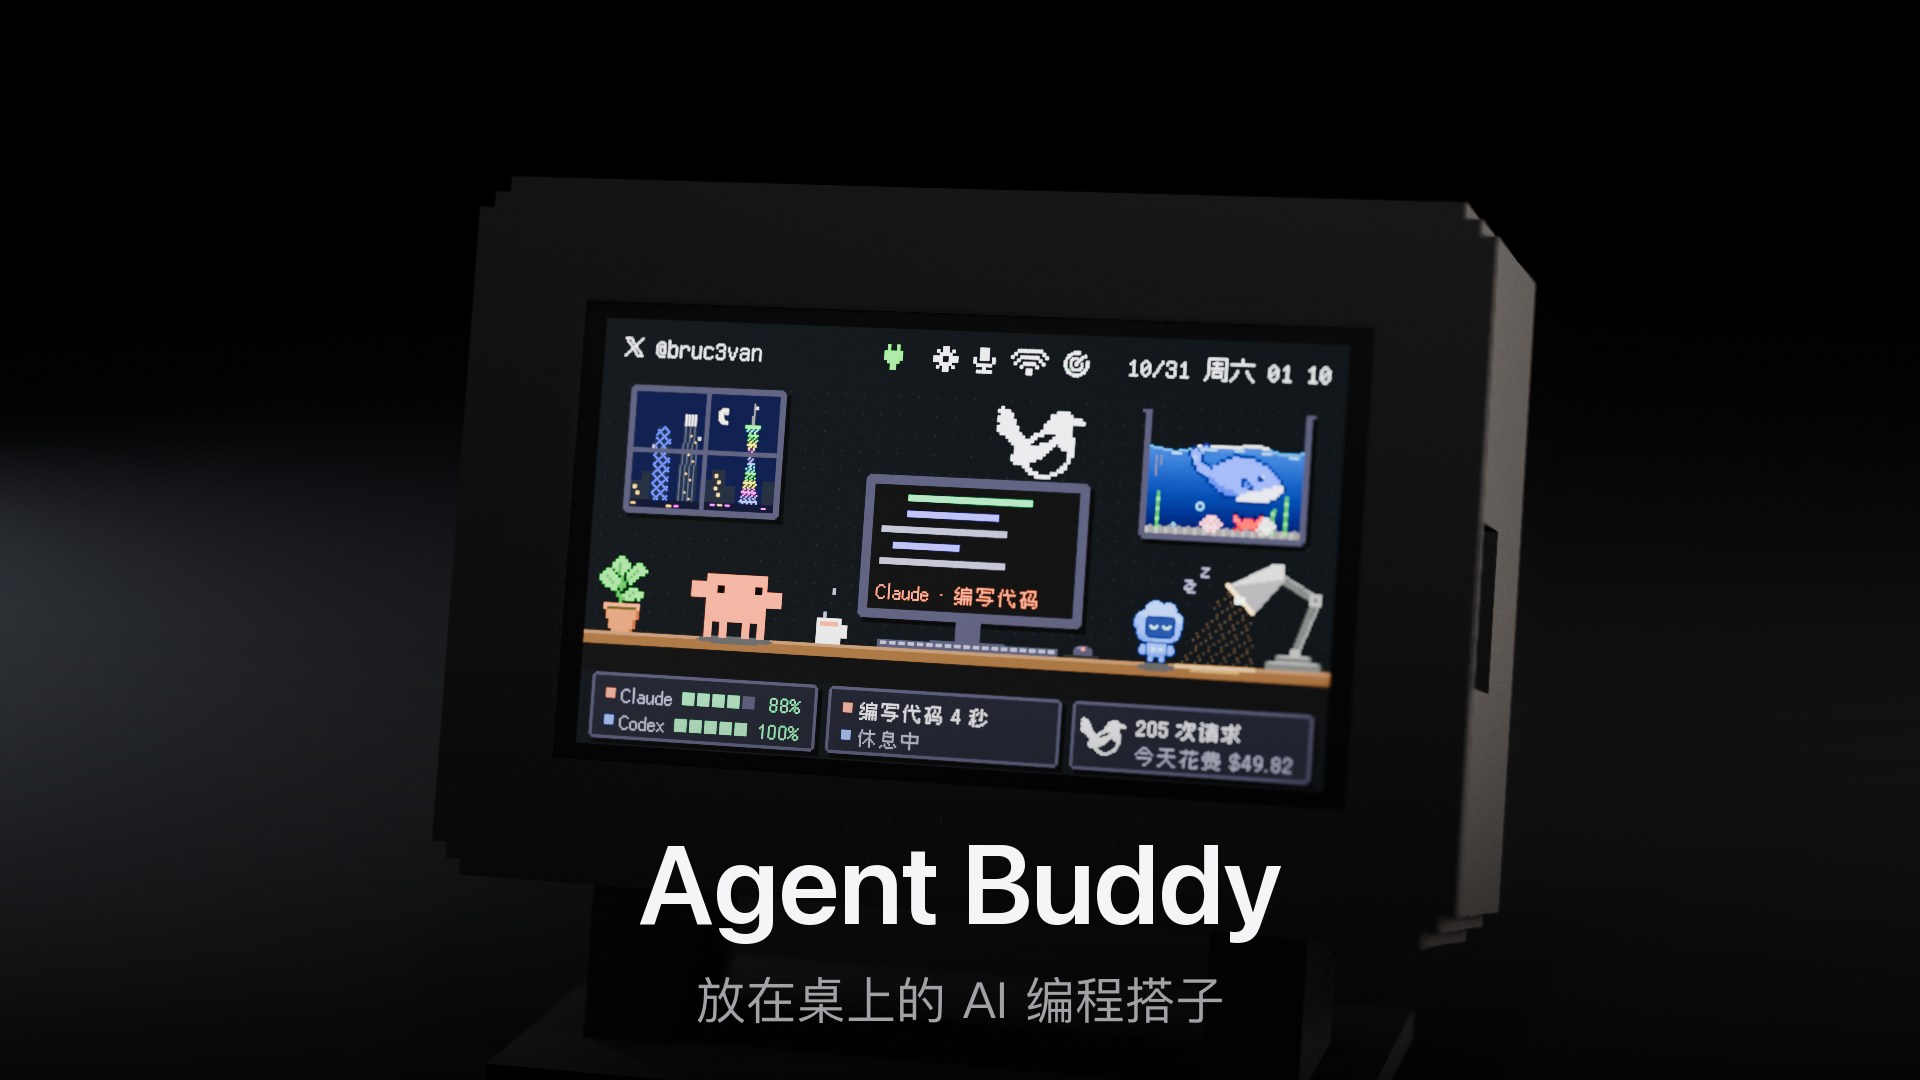
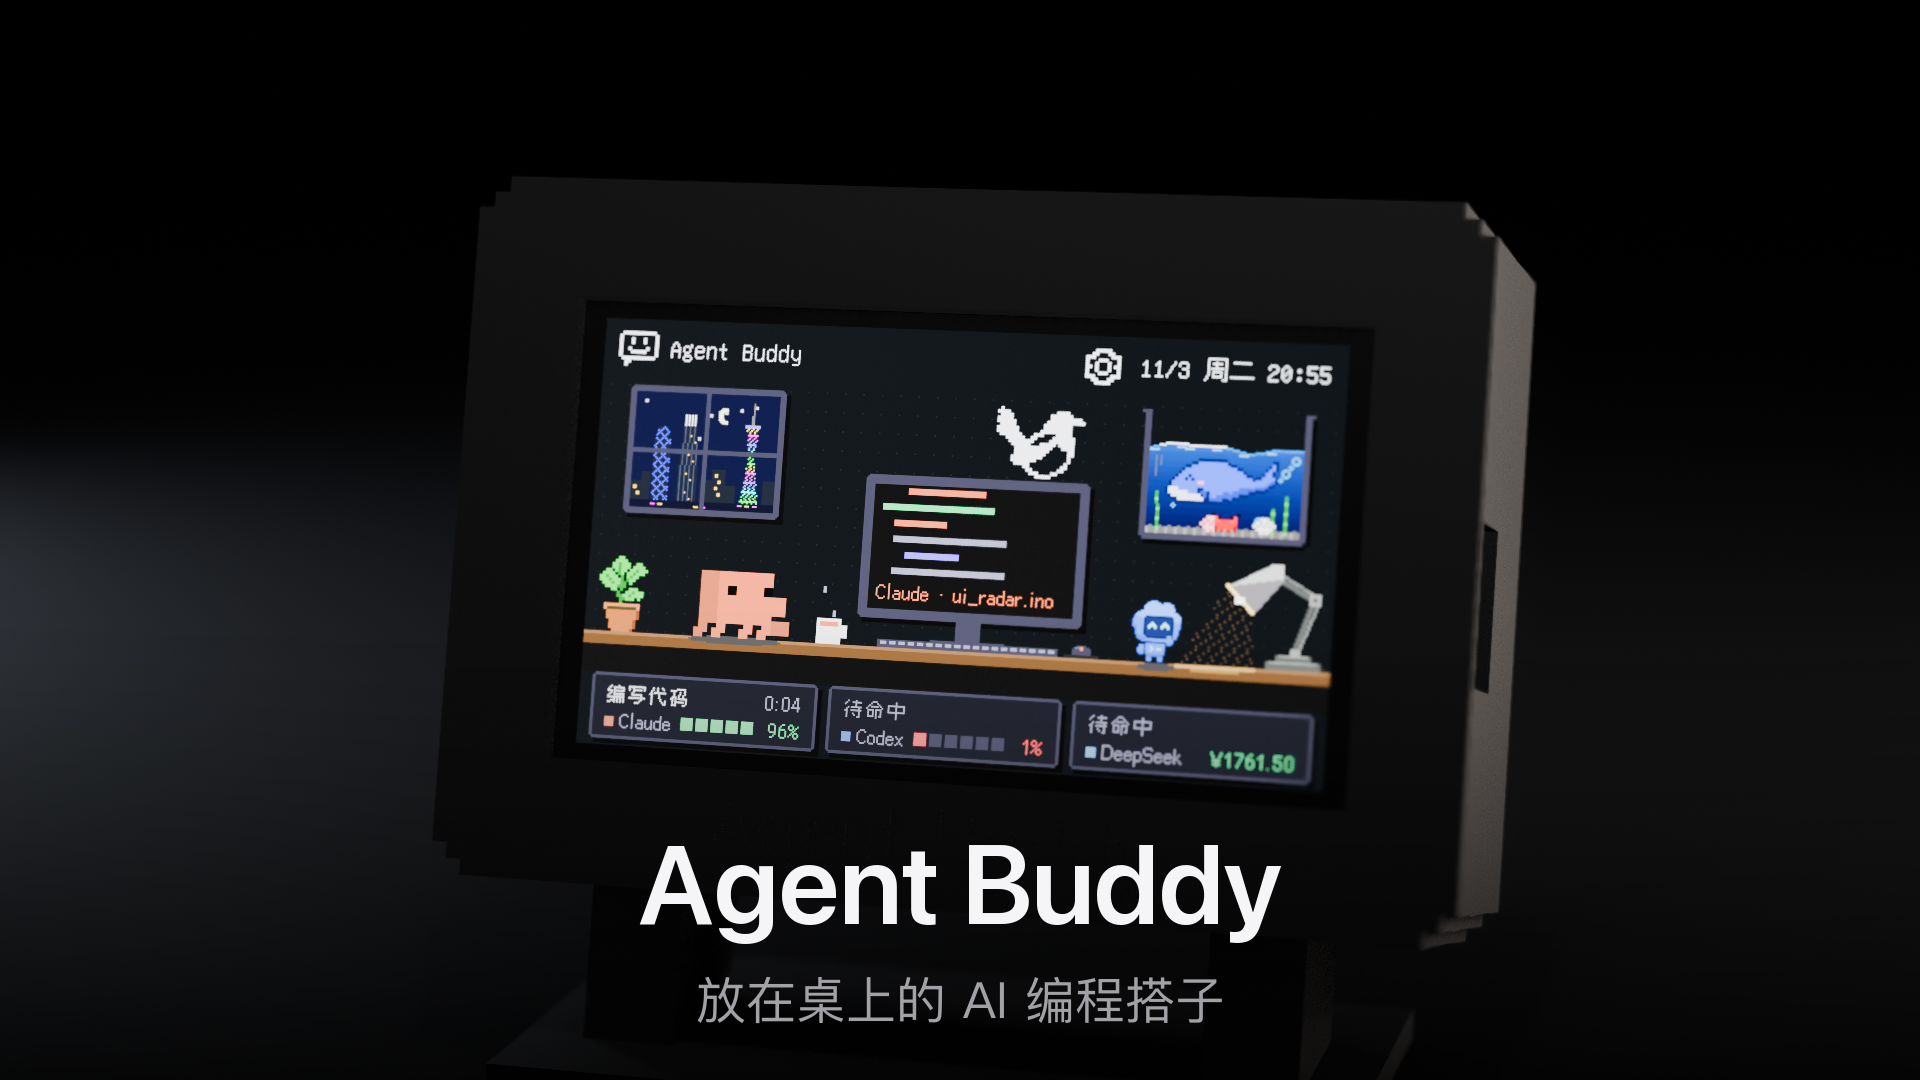
宣传片换成固件 v4.2 的新界面
录屏改用新的「排行」页和「连接」页，替换原来的 Agent 页和电脑设置页。连接页的电脑名和底部露出的 Wi-Fi 名打码，路由页已经没有隐私信息，去掉了它的打码。
新增 render_v4.sh，用来重渲全部 3D 镜头、重做封面并导出三个版本。

diff --git a/promo/record_screens.py b/promo/record_screens.py
@@ -93,7 +93,7 @@ CLIPS = {
     "buddy_claude": (16, lambda: ui(screen=1, agent=0), claude_flow()),
     "buddy_codex": (14, lambda: ui(screen=1, agent=1), codex_flow()),
     "buddy_deepseek": (13, lambda: ui(screen=1, agent=2), deepseek_flow()),
-    "magpie_agent": (6, lambda: ui(screen=2, tab=0), []),
+    "magpie_rank": (6, lambda: ui(screen=2, tab=0, period=0), []),
     "magpie_quota": (6, lambda: ui(screen=2, tab=1), []),
     "magpie_usage": (6, lambda: ui(screen=2, tab=2, period=0), []),
     "magpie_route": (9, lambda: (ui(screen=2, tab=3), post("/replay")), []),
@@ -101,7 +101,7 @@ CLIPS = {
     "standby": (10, lambda: ui(screen=0, standby=1), []),
     "welcome_back": (9, lambda: (ui(screen=0), post("/back")), []),
     "settings_sound": (6, lambda: ui(screen=3, set=0), []),
-    "settings_pc": (6, lambda: ui(screen=3, set=1), []),
+    "settings_conn": (6, lambda: ui(screen=3, set=1), []),
 }
 
 

diff --git a/promo/make_tex.py b/promo/make_tex.py
@@ -7,9 +7,8 @@ HERE = os.path.dirname(os.path.abspath(__file__))
 # 片段名: [(x, y, w, h)]，960×544 坐标
 MASKS = {
     "buddy_codex": [(676, 312, 258, 38)],
-    "magpie_route": [(776, 200, 160, 42), (288, 386, 244, 38), (288, 486, 244, 38)],
     "magpie_quota": [(36, 168, 370, 48), (36, 396, 370, 48)],
-    "settings_pc": [(290, 256, 652, 288), (388, 110, 100, 40), (592, 156, 192, 36)],  # 附近网络列表、SSID、局域网 IP
+    "settings_conn": [(230, 160, 230, 104), (230, 516, 330, 28)],  # 电脑名、底部露出的 Wi-Fi 名
 }
 TRIM = {"standby": 5.6}  # 片头还是上一页（切到待机时钟有延迟），从这里开始
 

diff --git a/promo/scene.py b/promo/scene.py
@@ -434,8 +434,8 @@ def feature(name, side):
     return fn
 
 
-for i, n in enumerate(('buddy_claude', 'buddy_codex', 'buddy_deepseek', 'home_split', 'magpie_agent', 'magpie_usage',
-                       'magpie_route', 'radar', 'standby', 'welcome_back', 'settings_sound', 'settings_pc')):
+for i, n in enumerate(('buddy_claude', 'buddy_codex', 'buddy_deepseek', 'home_split', 'magpie_rank', 'magpie_usage',
+                       'magpie_route', 'radar', 'standby', 'welcome_back', 'settings_sound', 'settings_conn')):
     SHOTS['f_' + n] = feature(n, 1 if i % 2 else -1)
 
 end = SHOTS[SHOT]()
